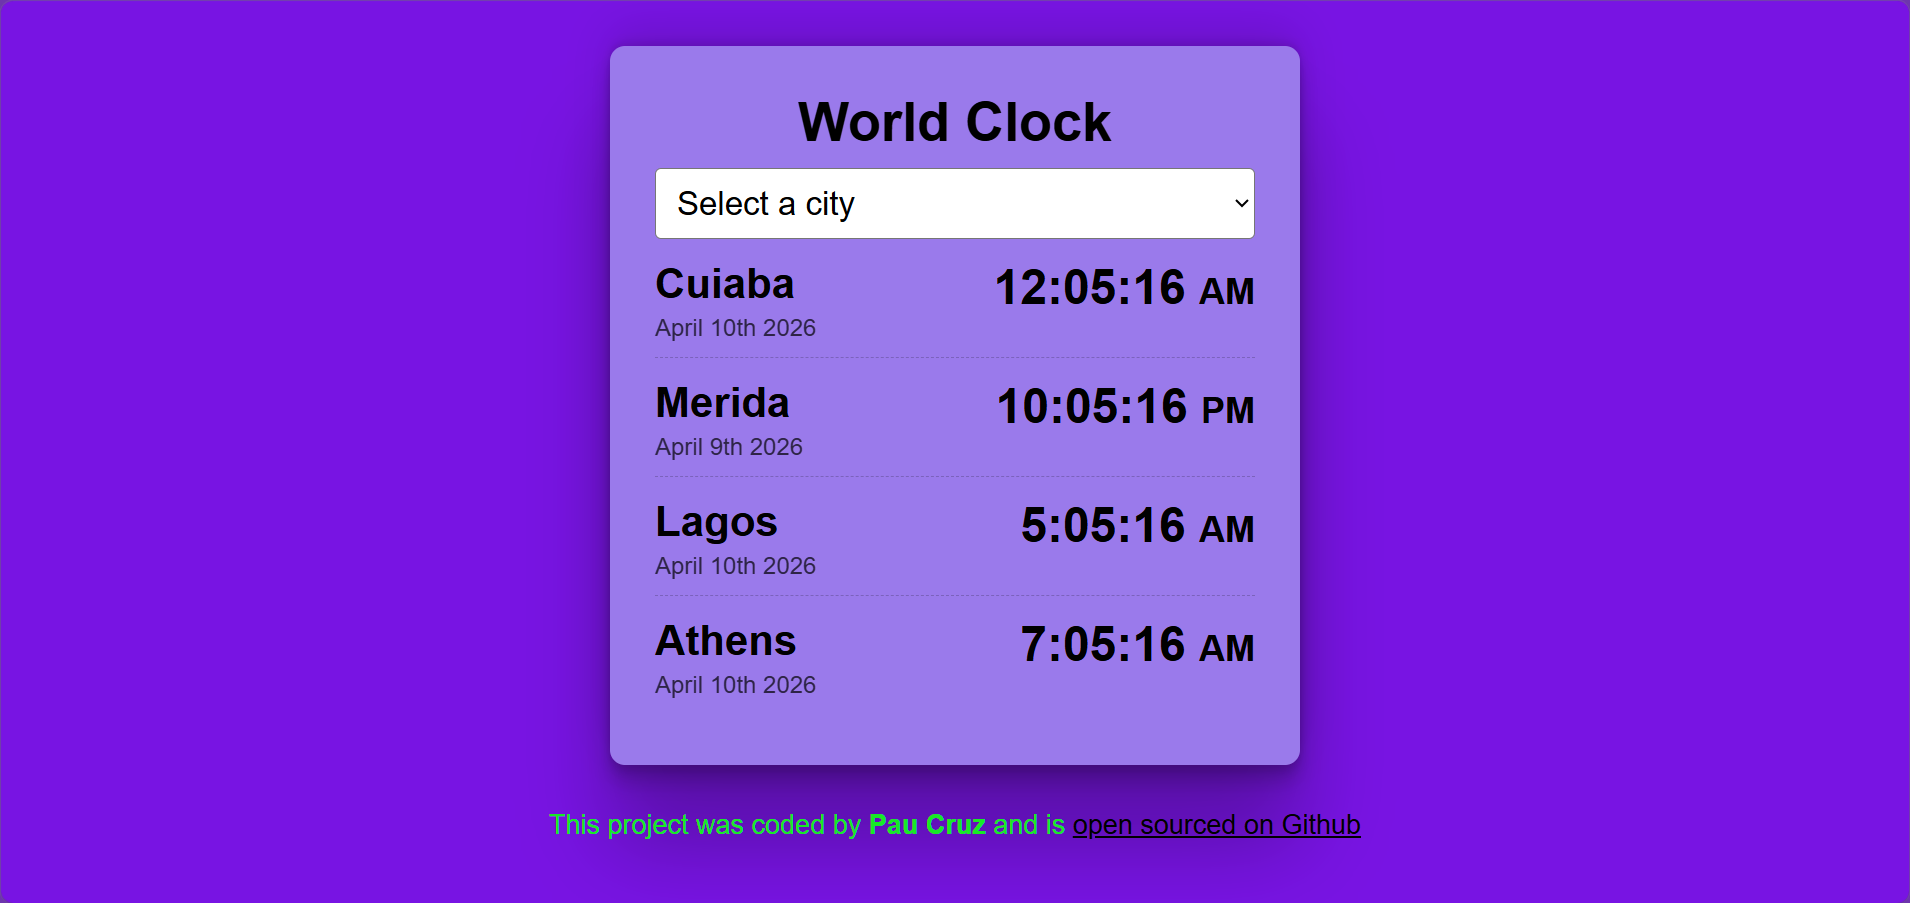
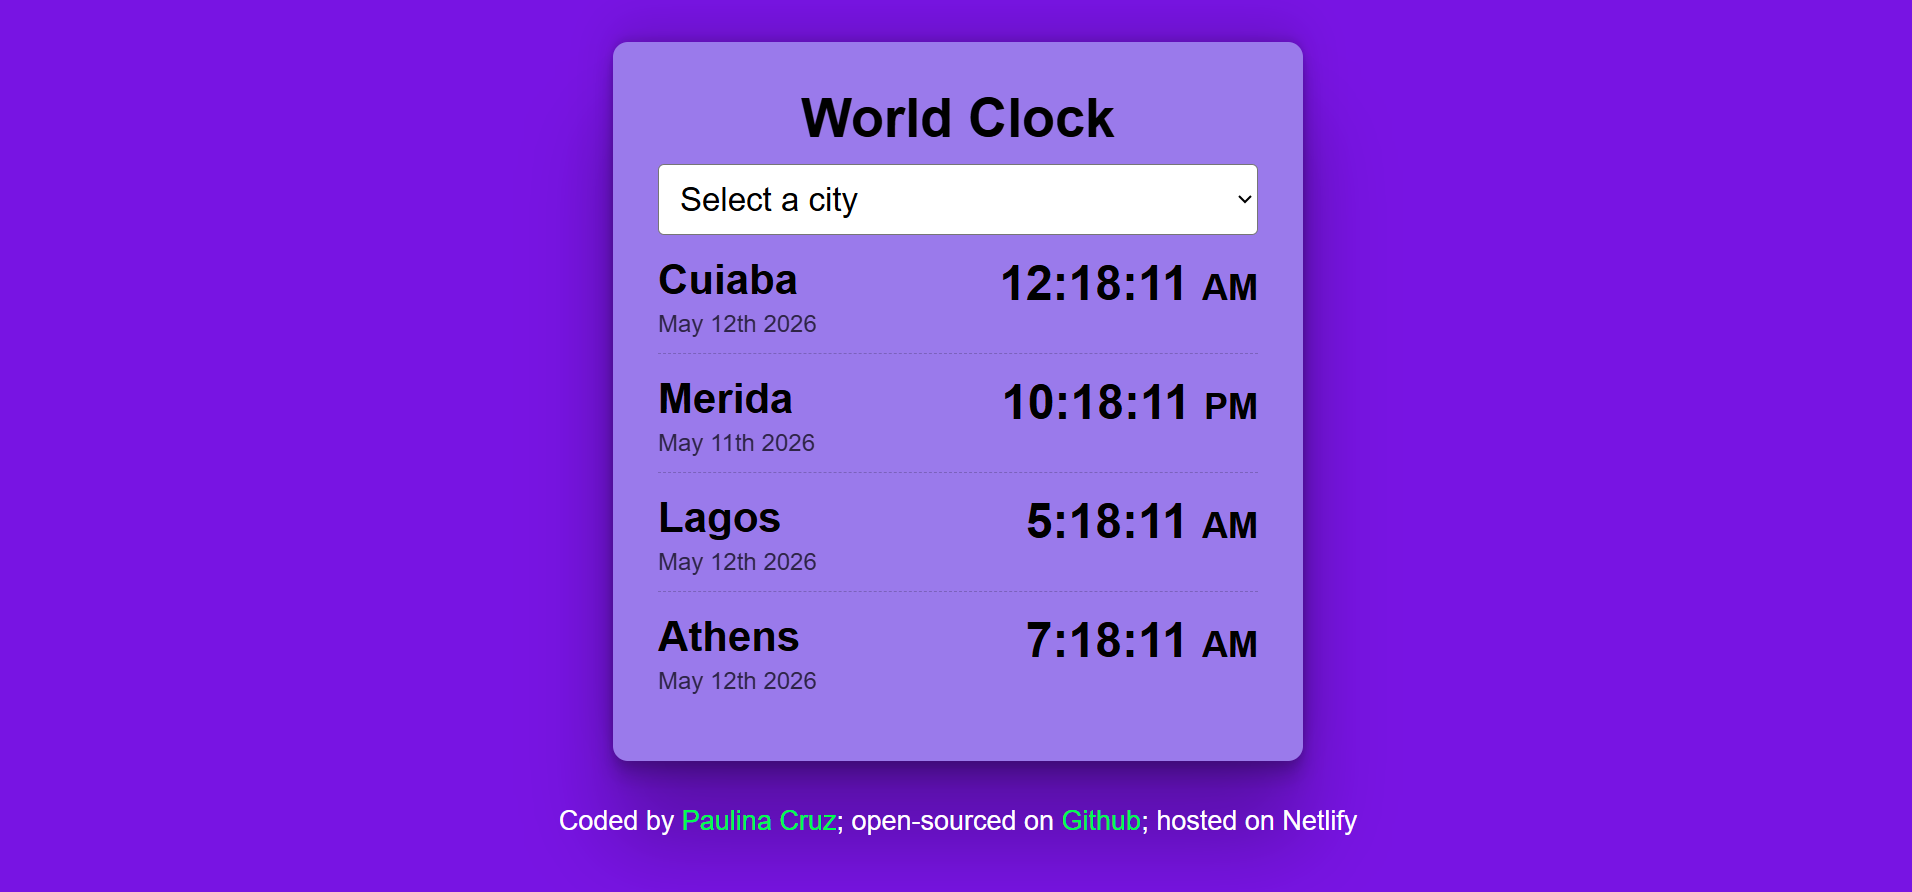
updated projects

diff --git a/paulinacruz-portfolio/src/Work.jsx b/paulinacruz-portfolio/src/Work.jsx
@@ -77,7 +77,7 @@ export default function Work() {
         <div className="row justify-content-center project-text">
           <div className="col-lg text-center text-lg-end">
             <a
-              href="https://women-poems-searcher.netlify.app/"
+              href="https://women-poems-searcher.paucruz.com/"
               target="_blank"
               rel="noopener noreferrer"
               className="image-link"
@@ -137,7 +137,7 @@ export default function Work() {
         <div className="row justify-content-center project-text">
           <div className="col-lg text-center text-lg-end">
             <a
-              href="https://purple-weatherapp.paucruz.com/"
+              href="https://purple-weather-app.paucruz.com/"
               target="_blank"
               rel="noopener noreferrer"
               className="image-link"
@@ -167,6 +167,36 @@ export default function Work() {
         <div className="row justify-content-center project-text">
           <div className="col-lg text-end order-lg-0 order-1">
             <div className="text-center text-lg-end">
+              <h3>DICTIONARY APP</h3>
+            </div>
+            <p className="justified-text-left paragraph-pages">
+              This page shows you the full date and time, in a digital clock, of
+              four default cities all around the world. You can also choose
+              other four cities or your current location.
+            </p>
+          </div>
+
+          <div className="col-lg order-lg-1 order-0">
+            <a
+              href="https://purple-dictionary.paucruz.com/"
+              target="_blank"
+              rel="noopener noreferrer"
+              className="image-link"
+            >
+              <img
+                src="/images/dictionary-project.png"
+                alt="Paulina Cruz's website with a working dictionary"
+                width="350"
+                className="project-image p-1 shadow rounded"
+              />
+              <span className="tap-text">Tap to open</span>
+            </a>
+          </div>
+        </div>
+
+        <div className="row justify-content-center project-text">
+          <div className="col-lg text-end order-lg-0 order-1">
+            <div className="text-center text-lg-end">
               <h3>WORLD CLOCK</h3>
             </div>
             <p className="justified-text-left paragraph-pages">
@@ -178,7 +208,7 @@ export default function Work() {
 
           <div className="col-lg order-lg-1 order-0">
             <a
-              href="https://world-clock-pc.netlify.app/index.html"
+              href="https://purple-world-clock.paucruz.com/"
               target="_blank"
               rel="noopener noreferrer"
               className="image-link"

diff --git a/paulinacruz-portfolio/about.html b/paulinacruz-portfolio/about.html
@@ -7,6 +7,10 @@
       name="description"
       content="Paulina Cruz is a Mexican Front-end developer and this page is about her"
     />
+    <meta
+      name="keywords"
+      content="Paulina Cruz, Front-end developer, Portfolio, About"
+    />
     <link rel="icon" type="image/svg+xml" href="/PMC-logo.svg" />
     <link rel="preconnect" href="https://fonts.googleapis.com" />
     <link rel="preconnect" href="https://fonts.gstatic.com" crossorigin />

diff --git a/paulinacruz-portfolio/contact.html b/paulinacruz-portfolio/contact.html
@@ -7,6 +7,10 @@
       name="description"
       content="Paulina Cruz is a Mexican Front-end developer and in this page you can contact her"
     />
+    <meta
+      name="keywords"
+      content="Paulina Cruz, Front-end developer, Portfolio, Contact"
+    />
     <link rel="icon" type="image/svg+xml" href="/PMC-logo.svg" />
     <link rel="preconnect" href="https://fonts.googleapis.com" />
     <link rel="preconnect" href="https://fonts.gstatic.com" crossorigin />

diff --git a/paulinacruz-portfolio/index.html b/paulinacruz-portfolio/index.html
@@ -8,6 +8,10 @@
       name="description"
       content="Paulina Cruz is a Mexican Front-end developer and this is her home page"
     />
+    <meta
+      name="keywords"
+      content="Paulina Cruz, Front-end developer, Portfolio"
+    />
     <link rel="preconnect" href="https://fonts.googleapis.com" />
     <link rel="preconnect" href="https://fonts.gstatic.com" crossorigin />
     <link

diff --git a/paulinacruz-portfolio/work.html b/paulinacruz-portfolio/work.html
@@ -7,6 +7,10 @@
       name="description"
       content="Paulina Cruz is a Mexican Front-end developer and this page shows her work"
     />
+    <meta
+      name="keywords"
+      content="Paulina Cruz, Front-end developer, Portfolio, Work"
+    />
     <link rel="icon" type="image/svg+xml" href="/PMC-logo.svg" />
     <link rel="preconnect" href="https://fonts.googleapis.com" />
     <link rel="preconnect" href="https://fonts.gstatic.com" crossorigin />